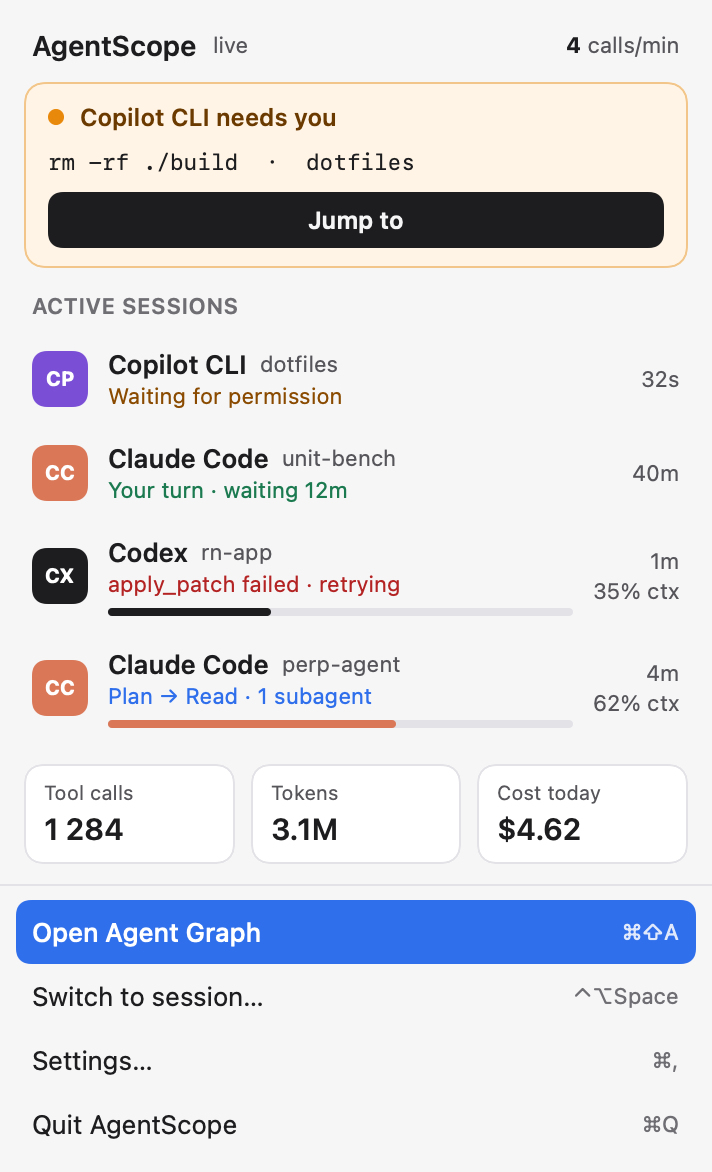
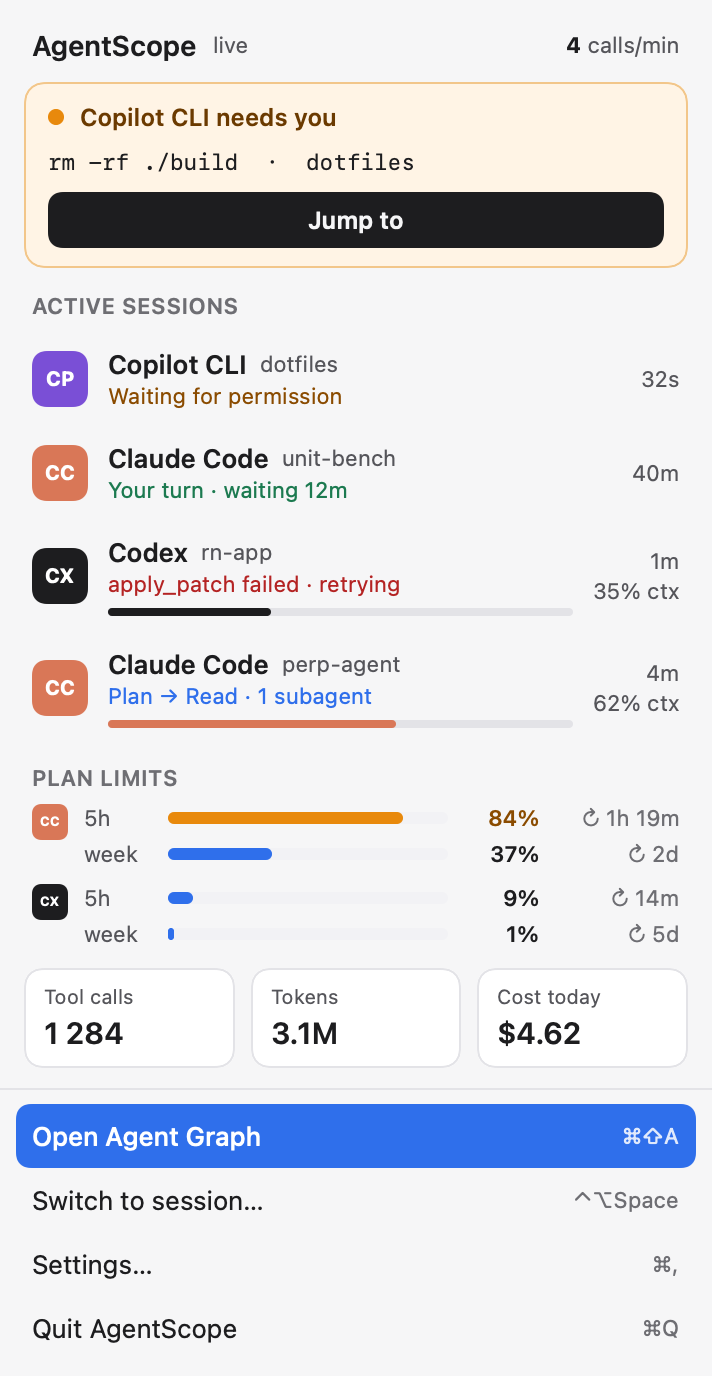
Full screen really works; README screenshots show the new cards
SwiftUI gives an accessory app's windows .fullScreenNone and .auxiliary,
so the green button only zoomed and toggleFullScreen did nothing. Clear
them once the view is in its window (makeNSView ran before that).
Screenshots are re-rendered with the new session and tool cards.

diff --git a/Sources/AgentScopeApp/MainWindow.swift b/Sources/AgentScopeApp/MainWindow.swift
@@ -64,18 +64,30 @@ struct MainWindow: View {
 private struct WindowAccessor: NSViewRepresentable {
     let onWindow: (NSWindow) -> Void
 
-    func makeNSView(context: Context) -> NSView {
-        let view = NSView()
-        DispatchQueue.main.async {
-            guard let window = view.window else { return }
-            window.collectionBehavior.insert(.fullScreenPrimary)
-            window.collectionBehavior.remove(.fullScreenAuxiliary)
+    func makeNSView(context: Context) -> NSView { WindowView(onWindow: onWindow) }
+    func updateNSView(_ nsView: NSView, context: Context) {}
+
+    /// Reports its window once it is actually in one; `makeNSView` runs before that.
+    private final class WindowView: NSView {
+        let onWindow: (NSWindow) -> Void
+
+        init(onWindow: @escaping (NSWindow) -> Void) {
+            self.onWindow = onWindow
+            super.init(frame: .zero)
+        }
+
+        required init?(coder: NSCoder) { fatalError("init(coder:) is not used") }
+
+        override func viewDidMoveToWindow() {
+            super.viewDidMoveToWindow()
+            guard let window else { return }
+            // SwiftUI marks an accessory app's windows `.fullScreenNone` and `.auxiliary`, which turns the
+            // green button into plain zoom.
+            window.collectionBehavior.remove([.fullScreenNone, .fullScreenAuxiliary, .auxiliary])
+            window.collectionBehavior.insert([.fullScreenPrimary, .primary])
             onWindow(window)
         }
-        return view
     }
-
-    func updateNSView(_ nsView: NSView, context: Context) {}
 }
 
 /// Everything right of the sidebar; also rendered on its own for debug snapshots.
